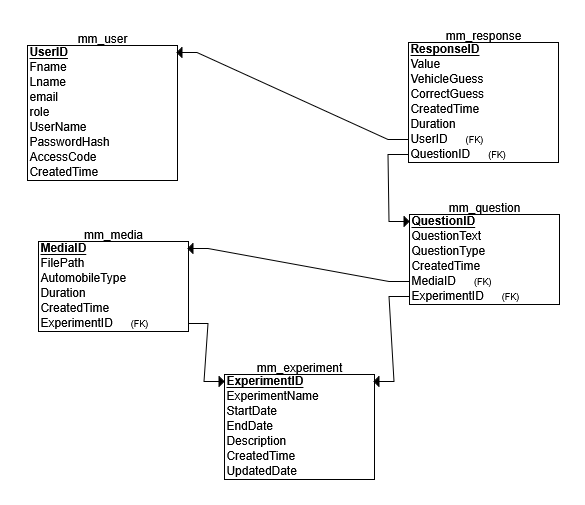
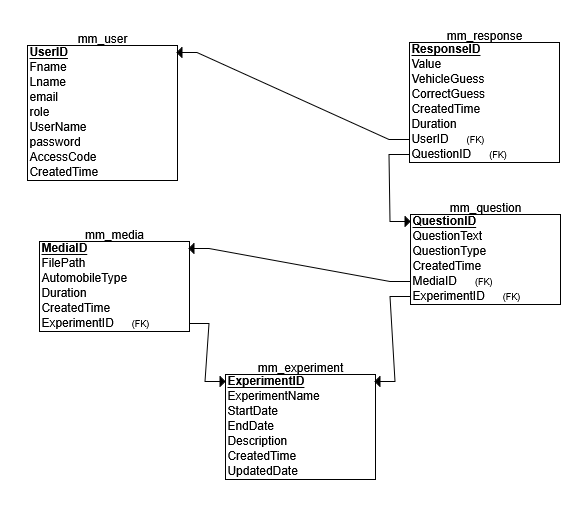
user, experiments, readme
Modified fieldname from PasswordHash to password in database, updated readme.md, and user and experiments class and templates

diff --git a/templates/users/add.html b/templates/users/add.html
@@ -1,45 +1,61 @@
 {% extends "base.html" %}
 
 {% block content %}
-            <div class="error_text">
-                {% if obj.errors | length > 0 %}
-                    {% for error in obj.errors  %}
-                        <div>{{ error }}</div>
-                    {% endfor %}
-				{% endif %}
-            </div>
-            <div>
-                <form action="manage?action=insert" method="POST">
-                    Name:<br>
-                    <input type="text" name="fname" value="{{ obj.data[0].fname }}" />
-                    <br>
+    <div class="error_text">
+        {% if obj.errors | length > 0 %}
+            {% for error in obj.errors %}
+                <div>{{ error }}</div>
+            {% endfor %}
+        {% endif %}
+    </div>
+    <div>
+        <form action="manage?action=insert" method="POST">
+            Name:<br>
+            <input type="text" name="Fname" value="{{ obj.data[0].Fname }}" />
+            <br>
 
-                    Email:<br>
-                    <input type="text" name="email" value="{{ obj.data[0].email }}" />
-                    <br>
+            Last Name:<br>
+            <input type="text" name="Fname" value="{{ obj.data[0].Fname }}" />
+            <br>
 
-                    Password:<br>
-                    <input type="password" name="password" value="" />
-                    <br>
+            Username:<br>
+            <input type="text" name="UserName" value="{{ obj.data[0].UserName }}" />
+            <br>
 
-                    Retype Password:<br>
-                    <input type="password" name="password2" value="" />
-                    <br>
+            Email:<br>
+            <input type="text" name="email" value="{{ obj.data[0].email }}" />
+            <br>
 
-                    Role:<br>
-                    <select name="role">
-                        {% for role in obj.roles  %}
-                            {% if  obj.data[0].role == role.value %}
-                                <option selected="true" value="{{ role.value }}">{{ role.text }}</option>
-                            {% else %}
-                                <option value="{{ role.value }}">{{ role.text }}</option>
-                            {% endif %}
-                        {% endfor %}
-                    </select>
-                    <br>
-                    <br>
-                    <input type="submit" value="Submit" />
-                </form>
-                
-            </div>
+            Password:<br>
+            <input type="password" name="password" value="" />
+            <br>
+
+            Retype Password:<br>
+            <input type="password" name="password2" value="" />
+            <br>
+
+            Role:<br>
+            <select name="role">
+                {% for role in obj.roles %}
+                    {% if obj.data[0].role == role.value %}
+                        <option selected="true" value="{{ role.value }}">{{ role.text }}</option>
+                    {% else %}
+                        <option value="{{ role.value }}">{{ role.text }}</option>
+                    {% endif %}
+                {% endfor %}
+            </select>
+            <br>
+
+            Access Code:<br>
+            <input type="text" name="AccessCode" value="{{ obj.data[0].AccessCode }}" readonly="readonly" />
+            <br>
+
+            Created On:<br>
+            <input type="datetime-local" name="CreatedTime" value="{{ obj.data[0].CreatedTime }}" readonly />
+            <br>
+            <br>
+
+            <input type="submit" value="Submit" />
+        </form>
+    </div>
 {% endblock %}

diff --git a/templates/main.html b/templates/main.html
@@ -3,13 +3,16 @@
 {% block content %}
     <h1>Main menu</h1>
       <div id="menumsg">
-		Hello, {{ me.fname }}  ({{ me.uid }}, {{ me.role }})
+		Hello, {{ me.Fname }}  ({{ me.UserID }}, {{ me.role }})
 	  </div>
 	<br><br>
 
 	<a href="/team/dashboard">Team Dashboard</a><br>
 	<a href="/users/manage">Manage Users</a><br>
-	<a href="/vehicles/manage">Manage Vehicles</a><br>
+	<a href="/experiments/manage">Manage Experiments</a><br>
+	<a href="/questions/manage">Manage Questions</a><br>
+	<a href="/responses/manage">Manage Responses</a><br>
+	<a href="/media/manage">Manage Media</a><br>
 	<a href="#">View Users</a><br>
 	<a href="/logout">Logout</a><br>
 	

diff --git a/templates/login.html b/templates/login.html
@@ -12,10 +12,10 @@
 		
 	<form action="login" method="POST">
 		Username:<br>
-		<input type="text" name="name" value="a@a.com"/><br><br>
+		<input type="text" name="name" value=""/><br><br>
 		
 		Password:<br>
-		<input type="password" name="password" value="123" /><br><br>
+		<input type="password" name="password" value="" /><br><br>
 		
 		
 		<input type="submit" value="Login"/>

diff --git a/templates/loginbase.html b/templates/loginbase.html
@@ -3,7 +3,7 @@
       {% if title %}
       <title>{{ title }} - Home</title>
       {% else %}
-      <title>Welcome to my example</title>
+      <title>Welcome to Survey app</title>
       {% endif %}
 	  <link rel="stylesheet" type="text/css" href="static/style.css">
     </head>

diff --git a/user.py b/user.py
@@ -1,12 +1,14 @@
 from baseObject import baseObject
 import pymysql
 import hashlib
+import random
+from datetime import datetime
 
 class user(baseObject):
     def __init__(self):
         self.setup()
         
-        self.roles = [{'value':'admin','text':'admin'},{'value':'customer','text':'customer'}]
+        self.roles = [{'value':'admin','text':'admin'},{'value':'user','text':'user'}]
     def hashPassword(self,pw):
         pw = pw+'xyz'
         return hashlib.md5(pw.encode('utf-8')).hexdigest()
@@ -15,49 +17,90 @@ class user(baseObject):
         for item in self.roles:
             rl.append(item['value'])
         return rl
-    def verify_new(self,n=0):
+    
+    def generate_accesscode(self):
+        """Generate a random 6-digit AccessCode and ensure it is unique."""
+        while True:
+            accesscode = random.randint(100000, 999999) 
+            u = user()
+            u.getByField('AccessCode', str(accesscode)) 
+            if len(u.data) == 0: 
+                return accesscode
+    def verify_new(self, n=0):
         self.errors = []
+
+        if len(self.data[n]['Fname']) < 2:
+            self.errors.append('First Name must be at least 2 characters.')
+
+        if len(self.data[n]['Lname']) < 2:
+            self.errors.append('Last Name must be at least 2 characters.')
+
         if '@' not in self.data[n]['email']:
             self.errors.append('Email must contain @')
+
         if self.data[n]['role'] not in self.role_list():
-            self.errors.append(f'role must be one of {self.role_list()}')
+            self.errors.append(f'Role must be one of {self.role_list()}')
+
         u = user()
-        u.getByField('email',self.data[0]['email'])
+        u.getByField('email', self.data[n]['email'])
         if len(u.data) > 0:
-            self.errors.append(f"Email address is already in use. ({self.data[0]['email']})")
+            self.errors.append(f"Email address is already in use. ({self.data[n]['email']})")
+        u.getByField('UserName', self.data[n]['UserName'])
+        if len(u.data) > 0:
+            self.errors.append(f"Username is already taken. ({self.data[n]['UserName']})")
+        if len(self.data[n]['UserName']) < 3:
+            self.errors.append('Username must be at least 3 characters.')
         if len(self.data[n]['password']) < 3:
             self.errors.append('Password should be greater than 3 chars.')
         if self.data[n]['password'] != self.data[n]['password2']:
             self.errors.append('Retyped password must match.')
+
         self.data[n]['password'] = self.hashPassword(self.data[n]['password'])
-        
-        if len(self.errors) == 0:
-            return True
-        else:
-            return False
-    def verify_update(self,n=0):
+
+        self.data[n]['AccessCode'] = self.generate_accesscode()
+
+        self.data[n]['CreatedTime'] = datetime.now().strftime('%Y-%m-%d %H:%M:%S')
+
+        return len(self.errors) == 0
+
+    def verify_update(self, n=0):
         self.errors = []
+
         if '@' not in self.data[n]['email']:
             self.errors.append('Email must contain @')
+
         if self.data[n]['role'] not in self.role_list():
-            self.errors.append(f'role must be one of {self.role_list()}')
+            self.errors.append(f'Role must be one of {self.role_list()}')
+
         u = user()
-        u.getByField('email',self.data[0]['email'])
+        u.getByField('email', self.data[n]['email'])
         if len(u.data) > 0 and u.data[0][u.pk] != self.data[n][self.pk]:
-            self.errors.append(f"Email address is already in use. ({self.data[0]['email']})")
-        
-        if len(self.data[n]['password']) == 0:
-            del self.data[n]['password']
-        else:
+            self.errors.append(f"Email address is already in use. ({self.data[n]['email']})")
+
+        u.getByField('UserName', self.data[n]['UserName'])
+        if len(u.data) > 0 and u.data[0][u.pk] != self.data[n][self.pk]:
+            self.errors.append(f"Username is already taken. ({self.data[n]['UserName']})")
+        if len(self.data[n]['UserName']) < 3:
+            self.errors.append('Username must be at least 3 characters.')
+
+        if 'password' in self.data[n] and self.data[n]['password']:
             if len(self.data[n]['password']) < 3:
                 self.errors.append('Password needs to be more than 3 chars.')
             else:
                 self.data[n]['password'] = self.hashPassword(self.data[n]['password'])
-     
+
+        if 'AccessCode' in self.data[n]:
+            new_accesscode = self.data[n]['AccessCode']
+            if new_accesscode:
+                u.getByField('AccessCode', str(new_accesscode))
+                if len(u.data) > 0 and u.data[0][u.pk] != self.data[n][self.pk]:
+                    self.errors.append(f"AccessCode {new_accesscode} has already been used.")
+
         if len(self.errors) == 0:
             return True
         else:
             return False
+    
     def tryLogin(self,email,pw):
         pw = self.hashPassword(pw)
         sql = f'SELECT * FROM `{self.tn}` WHERE `email` = %s AND `password` = %s;'

diff --git a/experiments.py b/experiments.py
@@ -1,0 +1,37 @@
+from baseObject import baseObject
+from datetime import datetime
+
+class experiments(baseObject):
+   
+    def __init__(self):
+        self.setup()
+
+    def verify_new(self, n=0):
+        self.errors = []
+
+        if len(self.data[n]['Description']) < 10:
+            self.errors.append("Description must be at least 10 characters long.")
+
+        start_date = datetime.strptime(self.data[n]['StartDate'], "%Y-%m-%d")
+        end_date = datetime.strptime(self.data[n]['EndDate'], "%Y-%m-%d")
+        if start_date >= end_date:
+            self.errors.append("StartDate must be before EndDate.")
+
+        self.data[n]['CreatedTime'] = datetime.now().strftime('%Y-%m-%d')
+
+        return len(self.errors) == 0
+
+    def verify_update(self, n=0):
+        self.errors = []
+
+        if len(self.data[n]['Description']) < 10:
+            self.errors.append("Description must be at least 10 characters long.")
+
+        start_date = datetime.strptime(self.data[n]['StartDate'], "%Y-%m-%d")
+        end_date = datetime.strptime(self.data[n]['EndDate'], "%Y-%m-%d")
+        if start_date >= end_date:
+            self.errors.append("StartDate must be before EndDate.")
+
+        self.data[n]['UpdatedDate'] = datetime.now().strftime('%Y-%m-%d')
+
+        return len(self.errors) == 0

diff --git a/README.md b/README.md
@@ -42,26 +42,23 @@ This app allows users to listen to vehicle sounds (car, motorcycle, truck or oth
 ![alt text](images/relational_schema.png)
 
 ## SQL view queries
-- CREATE TABLE mm_user
-    (UserID INT NOT NULL, Fname VARCHAR(50) NOT NULL, Lname VARCHAR(50) NOT NULL, email VARCHAR(50) NOT NULL,
-    role VARCHAR(50) NOT NULL, UserName VARCHAR(50) NOT NULL, PasswordHash VARCHAR(50) NOT NULL, AccessCode INT NOT NULL,
-    CreatedTime DATE NOT NULL, PRIMARY KEY (UserID) );
+- CREATE TABLE mm_user (
+    UserID INT AUTO_INCREMENT PRIMARY KEY, Fname VARCHAR(50) NOT NULL, Lname VARCHAR(50) NOT NULL, email VARCHAR(50) NOT NULL, role VARCHAR(50) NOT NULL, UserName VARCHAR(50) NOT NULL, password VARCHAR(100) NOT NULL, AccessCode INT NOT NULL, CreatedTime DATETIME NOT NULL) ENGINE=MyISAM;
 
-- CREATE TABLE mm_experiment
-    (ExperimentID INT NOT NULL, ExperimentName VARCHAR(100) NOT NULL, StartDate DATE NOT NULL, EndDate DATE NOT NULL,
-    Description VARCHAR(100) NOT NULL, UpdatedDate DATE NOT NULL,  PRIMARY KEY (ExperimentID) );
+- CREATE TABLE mm_experiment ( ExperimentID INT AUTO_INCREMENT PRIMARY KEY, ExperimentName VARCHAR(100) NOT NULL,
+    StartDate DATETIME NOT NULL, EndDate DATETIME NOT NULL, Description VARCHAR(100) NOT NULL,
+    CreatedTime DATETIME NOT NULL, UpdatedDate DATETIME NOT NULL) ENGINE=MyISAM;
 
-- CREATE TABLE mm_media
-    ( MediaID INT NOT NULL, FilePath VARCHAR(100) NOT NULL, AutomobileType VARCHAR(50) NOT NULL, Duration DATE NOT NULL,
-    CreatedTime DATE NOT NULL, ExperimentID INT NOT NULL, PRIMARY KEY (MediaID), FOREIGN KEY (ExperimentID) REFERENCES mm_experiment(ExperimentID)
-    );
+- CREATE TABLE mm_media ( MediaID INT AUTO_INCREMENT PRIMARY KEY, FilePath VARCHAR(100) NOT NULL, AutomobileType VARCHAR(50) NOT NULL,
+    Duration DATETIME NOT NULL, CreatedTime DATETIME NOT NULL, ExperimentID INT NOT NULL,
+    FOREIGN KEY (ExperimentID) REFERENCES mm_experiment(ExperimentID)) ENGINE=MyISAM;
 
-- CREATE TABLE mm_question
-    (QuestionID INT NOT NULL, QuestionText VARCHAR(1000) NOT NULL, QuestionType VARCHAR(50) NOT NULL, CreatedTime DATE NOT NULL,
-    ExperimentID INT NOT NULL,  MediaID INT NOT NULL, PRIMARY KEY (QuestionID), FOREIGN KEY (ExperimentID) REFERENCES mm_experiment(ExperimentID),
-    FOREIGN KEY (MediaID) REFERENCES mm_media(MediaID) );
+- CREATE TABLE mm_question ( QuestionID INT AUTO_INCREMENT PRIMARY KEY, QuestionText VARCHAR(1000) NOT NULL,
+    QuestionType VARCHAR(50) NOT NULL, CreatedTime DATETIME NOT NULL, ExperimentID INT NOT NULL,
+    MediaID INT NOT NULL, FOREIGN KEY (ExperimentID) REFERENCES mm_experiment(ExperimentID),
+    FOREIGN KEY (MediaID) REFERENCES mm_media(MediaID)) ENGINE=MyISAM;
 
-- CREATE TABLE mm_response
-    ( ResponseID INT NOT NULL, Value INT NOT NULL, VehicleGuess VARCHAR(50) NOT NULL, CorrectGuess CHAR(1) NOT NULL,
-    CreatedTime DATE NOT NULL, Duration DATE NOT NULL, UserID INT NOT NULL, QuestionID INT NOT NULL, PRIMARY KEY (ResponseID),
-    FOREIGN KEY (UserID) REFERENCES mm_user(UserID), FOREIGN KEY (QuestionID) REFERENCES mm_question(QuestionID) );
+- CREATE TABLE mm_response ( ResponseID INT AUTO_INCREMENT PRIMARY KEY, Value INT NOT NULL, VehicleGuess VARCHAR(50) NOT NULL,
+    CorrectGuess CHAR(1) NOT NULL, CreatedTime DATETIME NOT NULL, Duration DATETIME NOT NULL,
+    UserID INT NOT NULL,  QuestionID INT NOT NULL, FOREIGN KEY (UserID) REFERENCES mm_user(UserID),
+    FOREIGN KEY (QuestionID) REFERENCES mm_question(QuestionID)) ENGINE=MyISAM;
